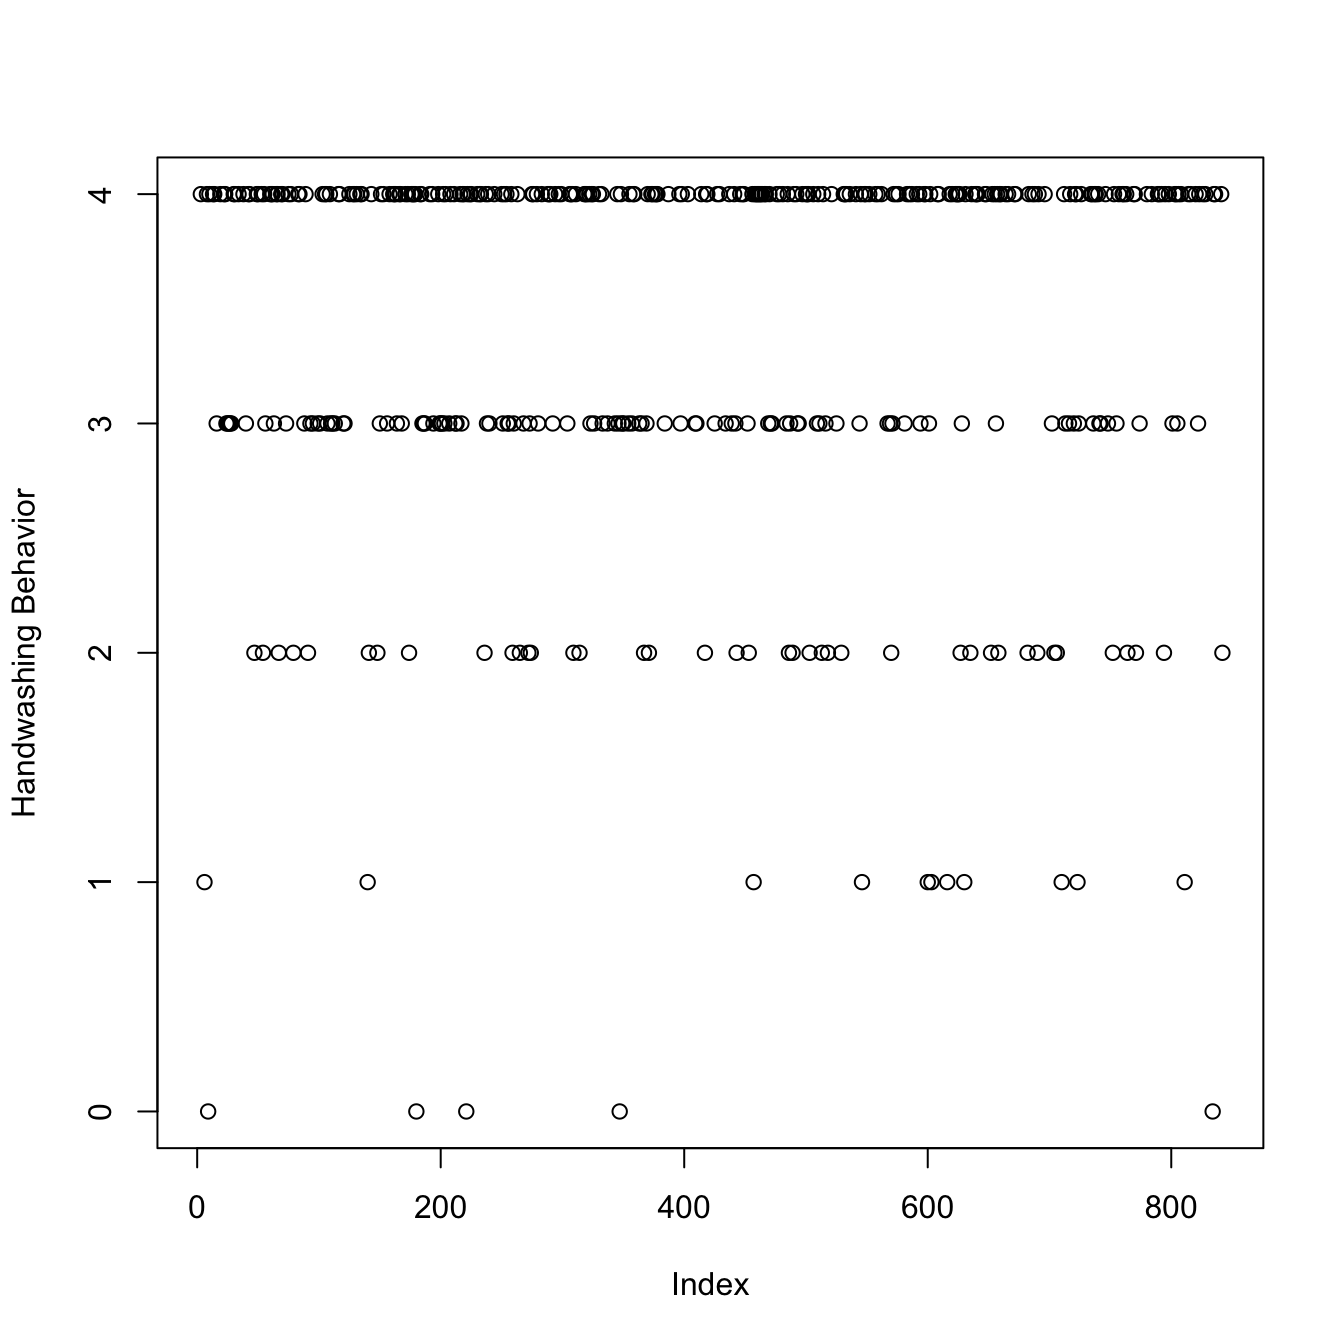
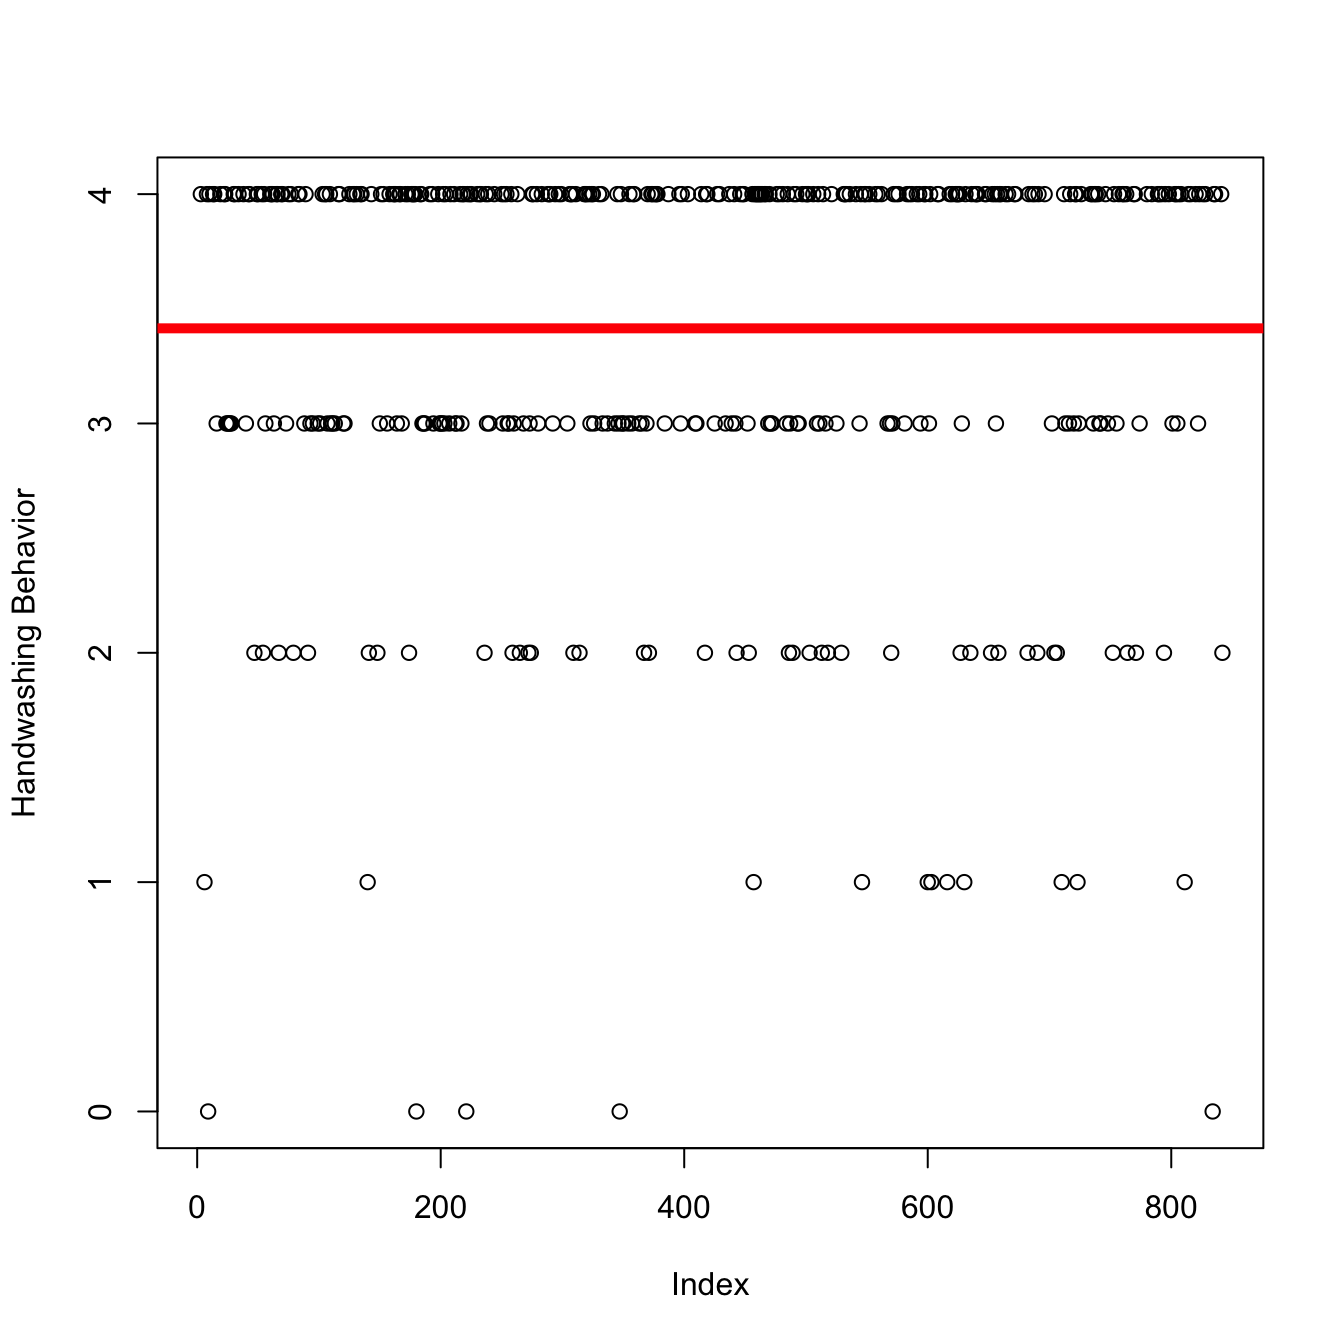
w4

Changed region(s): [[0.125, 0.2188, 0.9375, 0.25]]

diff --git a/docs/dvcstats/slides/ch3.html b/docs/dvcstats/slides/ch3.html
@@ -138,22 +138,10 @@
 
 </section>
 <section>
-<section id="welcome-back" class="title-slide slide level1 center">
+<section id="welcome-back" class="title-slide slide level1 smaller center">
 <h1>Welcome Back</h1>
 <p><a href="https://docs.google.com/forms/d/e/1FAIpQLSdQJEpElxkP24rGAwMSnx8XebvXC1md7u-5i5HkBUMjwZJkQg/viewform?usp=header">Check-In Here : <strong>tinyurl.com/dvcminidata</strong></a></p>
-<div class="columns">
-<div class="column" style="width:60%;">
-<p><strong>Agenda</strong></p>
-<ul>
-<li><p><strong>8:55 - 9:10.</strong> Check-In.</p></li>
-<li><p><strong>9:10 - 9:40.</strong> Describing Data with Brain.</p></li>
-<li><p><strong>9:40 - 10:10.</strong> Describing Data with R.</p></li>
-<li><p><strong>10:10 - 10:20.</strong> Break Time</p></li>
-<li><p><strong>10:20 - 11:00.</strong> Work on Lab 3.</p></li>
-</ul>
-</div><div class="column" style="width:40%;">
-<p><img data-src="images/clipboard-1056536258.png"></p>
-</div></div>
+<p><img data-src="images/clipboard-1056536258.png"> ::: :::::</p>
 </section>
 <section id="part-1-describing-data-with-brain." class="title-slide slide level2 center">
 <h2>Part 1 : Describing Data with Brain.</h2>
@@ -186,7 +174,7 @@
 <div class="cell-output-display">
 <div class="quarto-figure quarto-figure-center">
 <figure>
-<p><img data-src="ch3_files/figure-revealjs/unnamed-chunk-2-1.png" class="quarto-figure quarto-figure-center" width="672"></p>
+<p><img data-src="ch3_files/figure-revealjs/unnamed-chunk-1-1.png" class="quarto-figure quarto-figure-center" width="672"></p>
 </figure>
 </div>
 </div>
@@ -197,7 +185,7 @@
 <div class="cell-output-display">
 <div class="quarto-figure quarto-figure-center">
 <figure>
-<p><img data-src="ch3_files/figure-revealjs/unnamed-chunk-3-1.png" class="quarto-figure quarto-figure-center" width="672"></p>
+<p><img data-src="ch3_files/figure-revealjs/unnamed-chunk-2-1.png" class="quarto-figure quarto-figure-center" width="672"></p>
 </figure>
 </div>
 </div>
@@ -209,7 +197,7 @@
 <div class="cell-output-display">
 <div class="quarto-figure quarto-figure-center">
 <figure>
-<p><img data-src="ch3_files/figure-revealjs/unnamed-chunk-4-1.png" class="quarto-figure quarto-figure-center" width="1344"></p>
+<p><img data-src="ch3_files/figure-revealjs/unnamed-chunk-3-1.png" class="quarto-figure quarto-figure-center" width="1344"></p>
 </figure>
 </div>
 </div>
@@ -230,7 +218,7 @@
 <div class="cell-output-display">
 <div class="quarto-figure quarto-figure-center">
 <figure>
-<p><img data-src="ch3_files/figure-revealjs/unnamed-chunk-5-1.png" class="quarto-figure quarto-figure-center" width="672"></p>
+<p><img data-src="ch3_files/figure-revealjs/unnamed-chunk-4-1.png" class="quarto-figure quarto-figure-center" width="672"></p>
 </figure>
 </div>
 </div>

diff --git a/docs/dvcstats/W4_CH3.html b/docs/dvcstats/W4_CH3.html
@@ -120,6 +120,14 @@ ul.task-list li input[type="checkbox"] {
 <ul>
 <li><strong>CHECK-IN : Mini Survey :</strong> <a href="https://docs.google.com/forms/d/e/1FAIpQLSdQJEpElxkP24rGAwMSnx8XebvXC1md7u-5i5HkBUMjwZJkQg/viewform?usp=header"><strong>tinyurl.com/dvcminidata</strong></a></li>
 <li><strong>DATA FOR TODAY : <a href="https://www.dropbox.com/scl/fo/vlulle1mf2jga7zcn5gzo/AN7rOnjZZwIT9YtZmq9FD0U?rlkey=jaky8yvre5t2etbyyftd2ceq8&amp;dl=0">World Happiness Data and Codebook</a></strong></li>
+<li><strong>Agenda :</strong>
+<ul>
+<li><p><strong>8:55 - 9:10.</strong> Check-In.</p></li>
+<li><p><strong>9:10 - 9:40.</strong> Describing Data with Brain.</p></li>
+<li><p><strong>9:40 - 10:10.</strong> Describing Data with R.</p></li>
+<li><p><strong>10:10 - 10:20.</strong> Break Time</p></li>
+<li><p><strong>10:20 - 11:00.</strong> Work on Lab 3.</p></li>
+</ul></li>
 </ul>
 </section>
 <section id="due-next-week" class="level2">
